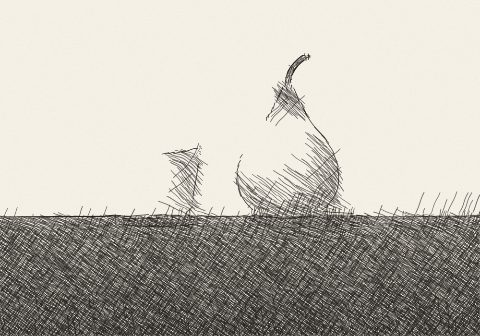
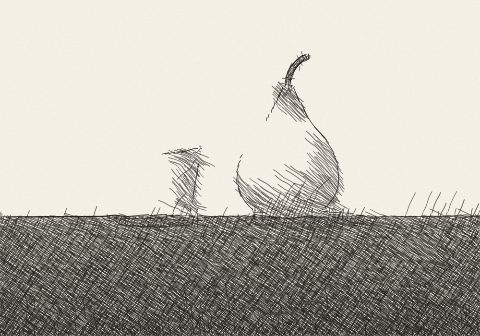
펜 프리셋을 참고 드로잉에 맞춤: 리천(사용자 드로잉 4장), 세밀 펜화(참고 펜화 8장)
- 리천: 여백 66(하늘·땅은 흰 종이), 굵기 1.4, 잉크 88(창·문 안 먹), 윤곽 80, 정밀도 60
- 세밀 펜화: 무작위성 8, 획 길이 80, 형태 따라가기 90, 잉크 92, 여백 52 — 평면마다 길고 고른 한 방향 해칭
- 잔결(잎) 영역: 목표의 지역 대비를 키워 잎 무리의 밝은 덩어리와 그늘이 갈라지게, 먹 채움도 잔결 0.75 까지 허용
- 고리선은 무작위성 25 이상인 설정에서만 (정돈된 손은 짧은 잎 획)
- 갤러리 예시 그림 재생성, CLAUDE.md 갱신

Claude-Session: https://claude.ai/code/session_01Hvnc9GgokccTnGmXxLxTkb

Changed region(s): [[0.0, 0.3869, 1.0, 1.0], [0.5625, 0.1786, 0.6562, 0.3571], [0.625, 0.1488, 0.6562, 0.1786]]

diff --git a/src/render.ts b/src/render.ts
@@ -610,7 +610,8 @@ function sweep(c: Ctx, ref: Float32Array, R: number, sw: Sweep, T: number, L: nu
     }
     if (sw.kind === 'scribble') { scribbleStroke(c, ref, x0, y0, len * 1.6); continue; }
     // pen 붓: 잔결(나뭇잎)은 획 대신 고리 선
-    if (c.p.brush === 'pen' && !sw.rot && c.texture[i0] > 0.45 && c.field.aniso[i0] < 0.45 && rng() < c.texture[i0] * 0.8) { loopStroke(c, ref, x0, y0, R); continue; }
+    // 무작위성이 낮은(정돈된 손) 설정은 고리 대신 짧은 잎 획으로 잔결을 낸다 (세밀 펜화)
+    if (c.p.brush === 'pen' && !sw.rot && c.rnd >= 0.25 && c.texture[i0] > 0.45 && c.field.aniso[i0] < 0.45 && rng() < c.texture[i0] * 0.8) { loopStroke(c, ref, x0, y0, R); continue; }
     let Lc = Math.min(len, Math.min(w, h) * 0.14);
     // 방향이 없는 평탄한 곳(하늘·벽)은 길게. 잔결 영역은 짧게 (긴 줄이 생기면 풀밭처럼 보인다)
     if (c.field.coh[i0] < 0.15 && c.field.man[i0] < 0.1 && c.texture[i0] < 0.3) Lc *= 1.7;
@@ -793,6 +794,11 @@ export function renderDrawing(img: RawImage, opts: RenderOpts): RawImage {
     const d = (white - L) / white;
     target[i] = (0.06 + 0.84 * Math.pow(d, 1.1)) * (1 - texture[i] * 0.22);
   }
+  // 잔결 영역(나뭇잎)은 지역 대비를 키운다: 잎 무리의 밝은 덩어리와 그늘 덩어리가 갈라져야 나무로 읽힌다 (참고 펜화의 잎 무리)
+  {
+    const local = boxBlur(target, w, h, Math.max(4, Math.round(minSide / 70)));
+    for (let i = 0; i < N; i++) if (texture[i] > 0.3) target[i] = clamp(target[i] + (target[i] - local[i]) * 0.9 * texture[i], 0, 1);
+  }
 
   const paper = paperFor(opts.color, p);
   const cv = new Canvas(w, h, paper);
@@ -859,7 +865,7 @@ export function renderDrawing(img: RawImage, opts: RenderOpts): RawImage {
     // 먹 채움: 잉크 농도가 높은 붓은 가장 깊은 그림자를 검게 (처마 밑, 열린 문). 잔결 영역은 제외.
     if (p.ink >= 85 && p.brush !== 'stipple') {
       const deep = boxBlur(Float32Array.from(target, (d) => (d > 0.86 ? 1 : 0)), w, h, 1);
-      for (let i = 0; i < N; i++) if (deep[i] > 0.6 && texture[i] < 0.4) cv.fill(i, 0.8 * deep[i], colorAt(i));
+      for (let i = 0; i < N; i++) if (deep[i] > 0.6 && texture[i] < 0.75) cv.fill(i, 0.8 * deep[i] * (1 - texture[i] * 0.4), colorAt(i));
     }
   }
 

diff --git a/src/types.ts b/src/types.ts
@@ -77,13 +77,13 @@ export interface PaintProfile {
  * 가는 검정 펜, 면의 방향을 따르는 획, 나뭇잎은 고리 선 뭉치, 하늘·하이라이트는 흰 종이, 가장자리는 미완성.
  */
 export const RICHEON_PAINT: PaintProfile = {
-  brush: 'pen', passes: 4, brushSize: 45, detail: 80, accuracy: 65, strokeLength: 55, featureFollow: 85, baseAngle: 55, randomness: 30,
-  lineWidth: 1.2, ink: 80, paperKeep: 58, edges: 70, vignette: 40, paperColor: '#f6f3ec', inkColor: '#17171a',
+  brush: 'pen', passes: 4, brushSize: 45, detail: 75, accuracy: 60, strokeLength: 60, featureFollow: 85, baseAngle: 55, randomness: 30,
+  lineWidth: 1.4, ink: 88, paperKeep: 66, edges: 80, vignette: 40, paperColor: '#f6f3ec', inkColor: '#17171a',
 };
 /** 세밀 펜화: 아주 가늘고 고른 선으로 끝까지 완성, 수평 하늘 해칭, 먹 그림자 */
 export const FINE_PAINT: PaintProfile = {
-  brush: 'pen', passes: 6, brushSize: 35, detail: 100, accuracy: 90, strokeLength: 50, featureFollow: 80, baseAngle: 0, randomness: 20,
-  lineWidth: 1, ink: 88, paperKeep: 40, edges: 90, vignette: 0, paperColor: '#f7f5f0', inkColor: '#111114',
+  brush: 'pen', passes: 6, brushSize: 40, detail: 100, accuracy: 85, strokeLength: 80, featureFollow: 90, baseAngle: 0, randomness: 8,
+  lineWidth: 1, ink: 92, paperKeep: 52, edges: 90, vignette: 0, paperColor: '#f7f5f0', inkColor: '#111114',
 };
 /** 클래식: 굵은 펜의 한 방향 해칭 */
 export const CLASSIC_PAINT: PaintProfile = {
